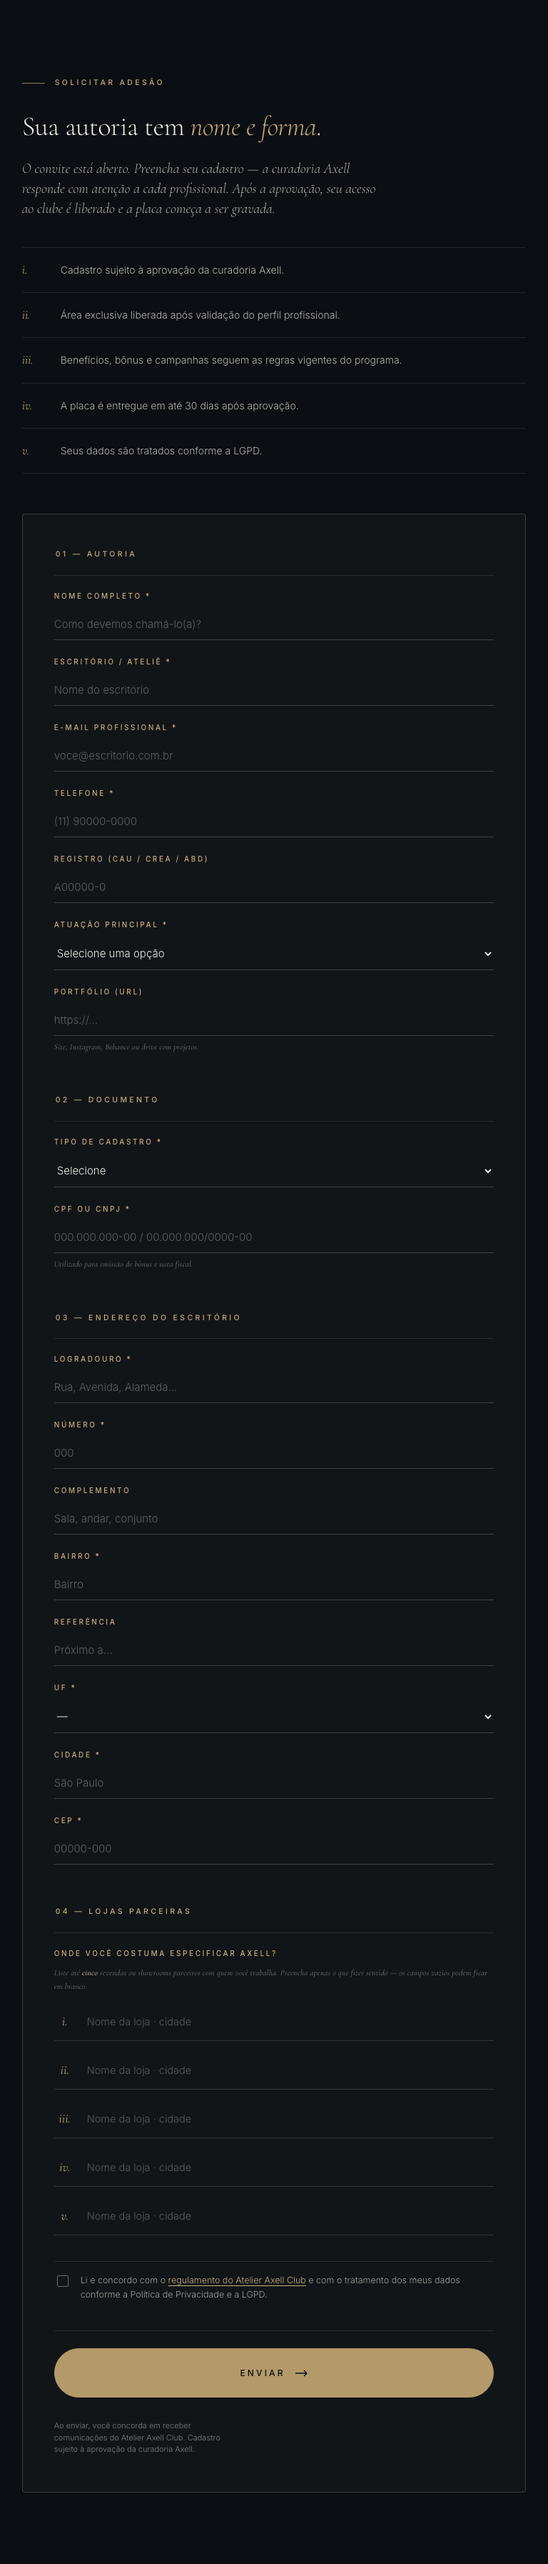
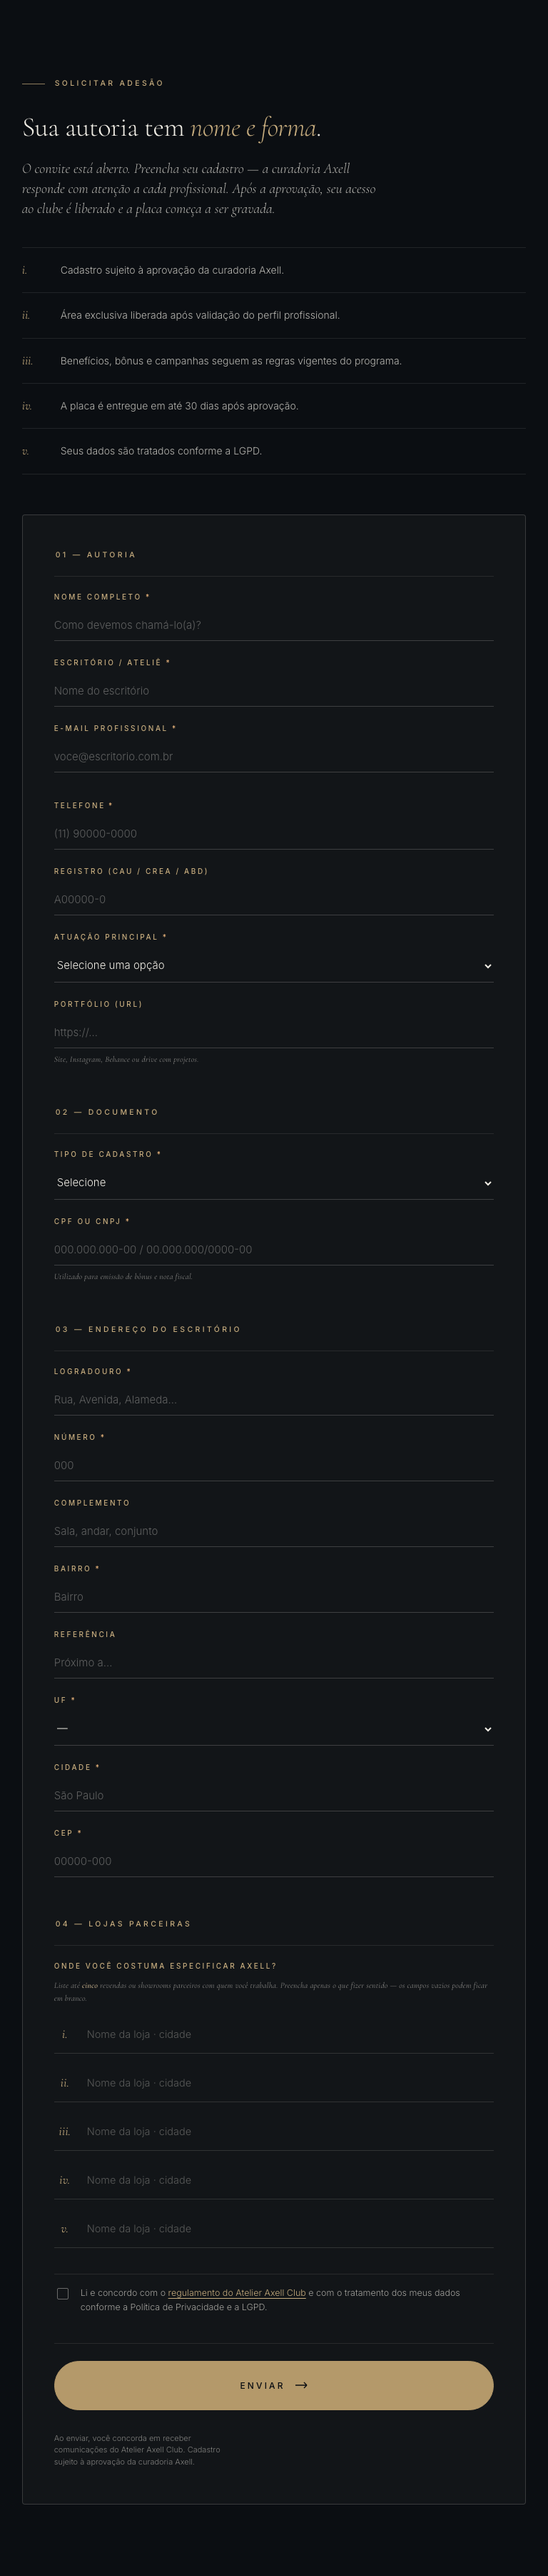
feat(design): adesão address and city rows in twelfths
Source and Bootstrap prototype: cols-addr 6fr 2fr 4fr, cols-city
2fr 6fr 4fr (uf / cidade / cep, same order in the prototype). Adesão
section bases and the desktop page base regenerated; changelog updated.

diff --git a/design/bootstrap/style.css b/design/bootstrap/style.css
@@ -66,25 +66,25 @@
   --aa-dark-border-subtle: #adb5bd;
   --aa-white-rgb: 255, 255, 255;
   --aa-black-rgb: 0, 0, 0;
-  --aa-font-sans-serif: system-ui, -apple-system, "Segoe UI", Roboto, "Helvetica Neue", "Noto Sans", "Liberation Sans", Arial, sans-serif, "Apple Color Emoji", "Segoe UI Emoji", "Segoe UI Symbol", "Noto Color Emoji";
+  --aa-font-sans-serif: "Inter", -apple-system, "Segoe UI", system-ui, sans-serif, "Apple Color Emoji", "Segoe UI Emoji", "Segoe UI Symbol", "Noto Color Emoji";
   --aa-font-monospace: SFMono-Regular, Menlo, Monaco, Consolas, "Liberation Mono", "Courier New", monospace;
   --aa-gradient: linear-gradient(180deg, rgba(255, 255, 255, 0.15), rgba(255, 255, 255, 0));
-  --aa-body-font-family: var(--aa-font-sans-serif);
+  --aa-body-font-family: "Inter", -apple-system, "Segoe UI", system-ui, sans-serif, "Apple Color Emoji", "Segoe UI Emoji", "Segoe UI Symbol", "Noto Color Emoji";
   --aa-body-font-size: 1rem;
   --aa-body-font-weight: 400;
   --aa-body-line-height: 1.5;
-  --aa-body-color: #212529;
-  --aa-body-color-rgb: 33, 37, 41;
-  --aa-body-bg: #fff;
-  --aa-body-bg-rgb: 255, 255, 255;
+  --aa-body-color: #0B0E12;
+  --aa-body-color-rgb: 11, 14, 18;
+  --aa-body-bg: #EFECE4;
+  --aa-body-bg-rgb: 239, 236, 228;
   --aa-emphasis-color: #000;
   --aa-emphasis-color-rgb: 0, 0, 0;
-  --aa-secondary-color: rgba(33, 37, 41, 0.75);
-  --aa-secondary-color-rgb: 33, 37, 41;
+  --aa-secondary-color: rgba(11, 14, 18, 0.75);
+  --aa-secondary-color-rgb: 11, 14, 18;
   --aa-secondary-bg: #e9ecef;
   --aa-secondary-bg-rgb: 233, 236, 239;
-  --aa-tertiary-color: rgba(33, 37, 41, 0.5);
-  --aa-tertiary-color-rgb: 33, 37, 41;
+  --aa-tertiary-color: rgba(11, 14, 18, 0.5);
+  --aa-tertiary-color-rgb: 11, 14, 18;
   --aa-tertiary-bg: #f8f9fa;
   --aa-tertiary-bg-rgb: 248, 249, 250;
   --aa-heading-color: inherit;
@@ -94,7 +94,7 @@
   --aa-link-hover-color: rgb(144, 122.4, 84.8);
   --aa-link-hover-color-rgb: 144, 122, 85;
   --aa-code-color: #d63384;
-  --aa-highlight-color: #212529;
+  --aa-highlight-color: #0B0E12;
   --aa-highlight-bg: rgb(255, 242.6, 205.4);
   --aa-border-width: 1px;
   --aa-border-style: solid;
@@ -183,7 +183,7 @@
 .container-lg,
 .container-md,
 .container-sm {
-  --aa-gutter-x: 1.5rem;
+  --aa-gutter-x: 7.2rem;
   --aa-gutter-y: 0;
   width: 100%;
   padding-right: calc(var(--aa-gutter-x) * 0.5);
@@ -192,42 +192,42 @@
   margin-left: auto;
 }
 
-@media (min-width: 561px) {
+@media (min-width: 480px) {
   .container-sm, .container {
-    max-width: 540px;
+    max-width: 100%;
   }
 }
-@media (min-width: 901px) {
+@media (min-width: 782px) {
   .container-md, .container-sm, .container {
-    max-width: 720px;
+    max-width: 100%;
   }
 }
-@media (min-width: 1201px) {
+@media (min-width: 782px) {
   .container-lg, .container-md, .container-sm, .container {
-    max-width: 960px;
+    max-width: 100%;
   }
 }
-@media (min-width: 1401px) {
+@media (min-width: 782px) {
   .container-xl, .container-lg, .container-md, .container-sm, .container {
-    max-width: 1140px;
+    max-width: 1280px;
   }
 }
-@media (min-width: 1601px) {
+@media (min-width: 782px) {
   .container-xxl, .container-xl, .container-lg, .container-md, .container-sm, .container {
-    max-width: 1320px;
+    max-width: 1280px;
   }
 }
 :root {
   --aa-breakpoint-xs: 0;
-  --aa-breakpoint-sm: 561px;
-  --aa-breakpoint-md: 901px;
-  --aa-breakpoint-lg: 1201px;
-  --aa-breakpoint-xl: 1401px;
-  --aa-breakpoint-xxl: 1601px;
+  --aa-breakpoint-sm: 480px;
+  --aa-breakpoint-md: 782px;
+  --aa-breakpoint-lg: 782px;
+  --aa-breakpoint-xl: 782px;
+  --aa-breakpoint-xxl: 782px;
 }
 
 .row {
-  --aa-gutter-x: 1.5rem;
+  --aa-gutter-x: 7.2rem;
   --aa-gutter-y: 0;
   display: flex;
   flex-wrap: wrap;
@@ -452,7 +452,7 @@
   --aa-gutter-y: 3rem;
 }
 
-@media (min-width: 561px) {
+@media (min-width: 480px) {
   .col-sm {
     flex: 1 0 0;
   }
@@ -621,7 +621,7 @@
     --aa-gutter-y: 3rem;
   }
 }
-@media (min-width: 901px) {
+@media (min-width: 782px) {
   .col-md {
     flex: 1 0 0;
   }
@@ -790,7 +790,7 @@
     --aa-gutter-y: 3rem;
   }
 }
-@media (min-width: 1201px) {
+@media (min-width: 782px) {
   .col-lg {
     flex: 1 0 0;
   }
@@ -959,7 +959,7 @@
     --aa-gutter-y: 3rem;
   }
 }
-@media (min-width: 1401px) {
+@media (min-width: 782px) {
   .col-xl {
     flex: 1 0 0;
   }
@@ -1128,7 +1128,7 @@
     --aa-gutter-y: 3rem;
   }
 }
-@media (min-width: 1601px) {
+@media (min-width: 782px) {
   .col-xxl {
     flex: 1 0 0;
   }
@@ -3200,11 +3200,11 @@ ul.channels-grid {
 }
 
 .form-row.cols-addr {
-  grid-template-columns: 1.6fr 0.6fr 1fr;
+  grid-template-columns: 6fr 2fr 4fr;
 } /* rua / número / complemento */
 .form-row.cols-city {
-  grid-template-columns: 1fr 100px 140px;
-} /* cidade / uf / cep */
+  grid-template-columns: 2fr 6fr 4fr;
+} /* uf / cidade / cep */
 .field label {
   display: block;
   font-family: var(--sans);

diff --git a/design/bootstrap/adesao/index.html b/design/bootstrap/adesao/index.html
@@ -149,11 +149,11 @@
           <fieldset class="mt-3">
             <legend class="h6 mb-0 text-uppercase list-number-item">Endereço do escritório</legend>
             <div class="row g-3">
-              <div class="col-md-5">
+              <div class="col-md-6">
                 <label for="rua" class="form-label">Logradouro <span class="text-warning" aria-hidden="true">*</span></label>
                 <input type="text" class="form-control" name="rua" id="rua" placeholder="Rua, Avenida, Alameda…" required autocomplete="address-line1">
               </div>
-              <div class="col-md-3">
+              <div class="col-md-2">
                 <label for="numero" class="form-label">Número <span class="text-warning" aria-hidden="true">*</span></label>
                 <input type="text" class="form-control" name="numero" id="numero" placeholder="000" required autocomplete="off">
               </div>
@@ -169,7 +169,7 @@
                 <label for="referencia" class="form-label">Referência</label>
                 <input type="text" class="form-control" name="referencia" id="referencia" placeholder="Próximo a…" autocomplete="off">
               </div>
-              <div class="col-md-3">
+              <div class="col-md-2">
                 <label for="uf" class="form-label">UF <span class="text-warning" aria-hidden="true">*</span></label>
                 <select class="form-select" name="uf" id="uf" required aria-label="UF" autocomplete="address-level1">
                   <option value="">—</option>
@@ -202,7 +202,7 @@
                   <option>TO</option>
                 </select>
               </div>
-              <div class="col-md-5">
+              <div class="col-md-6">
                 <label for="cidade" class="form-label">Cidade <span class="text-warning" aria-hidden="true">*</span></label>
                 <input type="text" class="form-control" name="cidade" id="cidade" placeholder="São Paulo" required autocomplete="address-level2">
               </div>

diff --git a/design/bootstrap/pure/adesao/index.html b/design/bootstrap/pure/adesao/index.html
@@ -149,11 +149,11 @@
           <fieldset class="mt-3">
             <legend class="h6 mb-0 text-uppercase list-number-item">Endereço do escritório</legend>
             <div class="row g-3">
-              <div class="col-md-5">
+              <div class="col-md-6">
                 <label for="rua" class="form-label">Logradouro <span class="text-warning" aria-hidden="true">*</span></label>
                 <input type="text" class="form-control" name="rua" id="rua" placeholder="Rua, Avenida, Alameda…" required autocomplete="address-line1">
               </div>
-              <div class="col-md-3">
+              <div class="col-md-2">
                 <label for="numero" class="form-label">Número <span class="text-warning" aria-hidden="true">*</span></label>
                 <input type="text" class="form-control" name="numero" id="numero" placeholder="000" required autocomplete="off">
               </div>
@@ -169,7 +169,7 @@
                 <label for="referencia" class="form-label">Referência</label>
                 <input type="text" class="form-control" name="referencia" id="referencia" placeholder="Próximo a…" autocomplete="off">
               </div>
-              <div class="col-md-3">
+              <div class="col-md-2">
                 <label for="uf" class="form-label">UF <span class="text-warning" aria-hidden="true">*</span></label>
                 <select class="form-select" name="uf" id="uf" required aria-label="UF" autocomplete="address-level1">
                   <option value="">—</option>
@@ -202,7 +202,7 @@
                   <option>TO</option>
                 </select>
               </div>
-              <div class="col-md-5">
+              <div class="col-md-6">
                 <label for="cidade" class="form-label">Cidade <span class="text-warning" aria-hidden="true">*</span></label>
                 <input type="text" class="form-control" name="cidade" id="cidade" placeholder="São Paulo" required autocomplete="address-level2">
               </div>

diff --git a/design/bootstrap/index.html b/design/bootstrap/index.html
@@ -719,10 +719,6 @@
         </div>
         <div class="form-row cols-city">
           <div class="field">
-            <label for="cidade">Cidade <span class="req">*</span></label>
-<input type="text" name="cidade" id="cidade" placeholder="São Paulo" required autocomplete="address-level2">
-          </div>
-          <div class="field">
             <label for="uf">UF <span class="req">*</span></label>
 <select name="uf" id="uf" required aria-label="UF" autocomplete="address-level1">
               <option value="">—</option>
@@ -734,6 +730,10 @@
               <option>RS</option><option>RO</option><option>RR</option><option>SC</option>
               <option>SP</option><option>SE</option><option>TO</option>
             </select>
+          </div>
+          <div class="field">
+            <label for="cidade">Cidade <span class="req">*</span></label>
+<input type="text" name="cidade" id="cidade" placeholder="São Paulo" required autocomplete="address-level2">
           </div>
           <div class="field">
             <label for="cep">CEP <span class="req">*</span></label>

diff --git a/design/bootstrap/scss/_mockup.scss b/design/bootstrap/scss/_mockup.scss
@@ -1231,8 +1231,8 @@ ul.channels-grid{ list-style: none; padding: 0; margin-bottom: 0; }
 }
 .form-row.cols-2{ grid-template-columns: 1fr 1fr; }
 .form-row.cols-3{ grid-template-columns: 1fr 1fr 1fr; }
-.form-row.cols-addr{ grid-template-columns: 1.6fr 0.6fr 1fr; } /* rua / número / complemento */
-.form-row.cols-city{ grid-template-columns: 1fr 100px 140px; }  /* cidade / uf / cep */
+.form-row.cols-addr{ grid-template-columns: 6fr 2fr 4fr; } /* rua / número / complemento */
+.form-row.cols-city{ grid-template-columns: 2fr 6fr 4fr; } /* uf / cidade / cep */
 
 .field label{
   display: block;

diff --git a/design/source/adesao/index.html b/design/source/adesao/index.html
@@ -1368,8 +1368,8 @@ blockquote.editorial-quote p{ margin: 0; }
 }
 .form-row.cols-2{ grid-template-columns: 1fr 1fr; }
 .form-row.cols-3{ grid-template-columns: 1fr 1fr 1fr; }
-.form-row.cols-addr{ grid-template-columns: 1.6fr 0.6fr 1fr; } /* rua / número / complemento */
-.form-row.cols-city{ grid-template-columns: 100px 1fr 140px; }  /* uf / cidade / cep */
+.form-row.cols-addr{ grid-template-columns: 6fr 2fr 4fr; } /* rua / número / complemento */
+.form-row.cols-city{ grid-template-columns: 2fr 6fr 4fr; } /* uf / cidade / cep */
 
 .field label{
   display: block;

diff --git a/design/source/beneficios/index.html b/design/source/beneficios/index.html
@@ -1368,8 +1368,8 @@ blockquote.editorial-quote p{ margin: 0; }
 }
 .form-row.cols-2{ grid-template-columns: 1fr 1fr; }
 .form-row.cols-3{ grid-template-columns: 1fr 1fr 1fr; }
-.form-row.cols-addr{ grid-template-columns: 1.6fr 0.6fr 1fr; } /* rua / número / complemento */
-.form-row.cols-city{ grid-template-columns: 100px 1fr 140px; }  /* uf / cidade / cep */
+.form-row.cols-addr{ grid-template-columns: 6fr 2fr 4fr; } /* rua / número / complemento */
+.form-row.cols-city{ grid-template-columns: 2fr 6fr 4fr; } /* uf / cidade / cep */
 
 .field label{
   display: block;

diff --git a/design/source/conceito/index.html b/design/source/conceito/index.html
@@ -1368,8 +1368,8 @@ blockquote.editorial-quote p{ margin: 0; }
 }
 .form-row.cols-2{ grid-template-columns: 1fr 1fr; }
 .form-row.cols-3{ grid-template-columns: 1fr 1fr 1fr; }
-.form-row.cols-addr{ grid-template-columns: 1.6fr 0.6fr 1fr; } /* rua / número / complemento */
-.form-row.cols-city{ grid-template-columns: 100px 1fr 140px; }  /* uf / cidade / cep */
+.form-row.cols-addr{ grid-template-columns: 6fr 2fr 4fr; } /* rua / número / complemento */
+.form-row.cols-city{ grid-template-columns: 2fr 6fr 4fr; } /* uf / cidade / cep */
 
 .field label{
   display: block;

diff --git a/design/source/convite/index.html b/design/source/convite/index.html
@@ -1368,8 +1368,8 @@ blockquote.editorial-quote p{ margin: 0; }
 }
 .form-row.cols-2{ grid-template-columns: 1fr 1fr; }
 .form-row.cols-3{ grid-template-columns: 1fr 1fr 1fr; }
-.form-row.cols-addr{ grid-template-columns: 1.6fr 0.6fr 1fr; } /* rua / número / complemento */
-.form-row.cols-city{ grid-template-columns: 100px 1fr 140px; }  /* uf / cidade / cep */
+.form-row.cols-addr{ grid-template-columns: 6fr 2fr 4fr; } /* rua / número / complemento */
+.form-row.cols-city{ grid-template-columns: 2fr 6fr 4fr; } /* uf / cidade / cep */
 
 .field label{
   display: block;

diff --git a/design/source/cta-strip/index.html b/design/source/cta-strip/index.html
@@ -1368,8 +1368,8 @@ blockquote.editorial-quote p{ margin: 0; }
 }
 .form-row.cols-2{ grid-template-columns: 1fr 1fr; }
 .form-row.cols-3{ grid-template-columns: 1fr 1fr 1fr; }
-.form-row.cols-addr{ grid-template-columns: 1.6fr 0.6fr 1fr; } /* rua / número / complemento */
-.form-row.cols-city{ grid-template-columns: 100px 1fr 140px; }  /* uf / cidade / cep */
+.form-row.cols-addr{ grid-template-columns: 6fr 2fr 4fr; } /* rua / número / complemento */
+.form-row.cols-city{ grid-template-columns: 2fr 6fr 4fr; } /* uf / cidade / cep */
 
 .field label{
   display: block;

diff --git a/design/source/editorial/index.html b/design/source/editorial/index.html
@@ -1368,8 +1368,8 @@ blockquote.editorial-quote p{ margin: 0; }
 }
 .form-row.cols-2{ grid-template-columns: 1fr 1fr; }
 .form-row.cols-3{ grid-template-columns: 1fr 1fr 1fr; }
-.form-row.cols-addr{ grid-template-columns: 1.6fr 0.6fr 1fr; } /* rua / número / complemento */
-.form-row.cols-city{ grid-template-columns: 100px 1fr 140px; }  /* uf / cidade / cep */
+.form-row.cols-addr{ grid-template-columns: 6fr 2fr 4fr; } /* rua / número / complemento */
+.form-row.cols-city{ grid-template-columns: 2fr 6fr 4fr; } /* uf / cidade / cep */
 
 .field label{
   display: block;

diff --git a/design/source/footer/index.html b/design/source/footer/index.html
@@ -1368,8 +1368,8 @@ blockquote.editorial-quote p{ margin: 0; }
 }
 .form-row.cols-2{ grid-template-columns: 1fr 1fr; }
 .form-row.cols-3{ grid-template-columns: 1fr 1fr 1fr; }
-.form-row.cols-addr{ grid-template-columns: 1.6fr 0.6fr 1fr; } /* rua / número / complemento */
-.form-row.cols-city{ grid-template-columns: 100px 1fr 140px; }  /* uf / cidade / cep */
+.form-row.cols-addr{ grid-template-columns: 6fr 2fr 4fr; } /* rua / número / complemento */
+.form-row.cols-city{ grid-template-columns: 2fr 6fr 4fr; } /* uf / cidade / cep */
 
 .field label{
   display: block;
